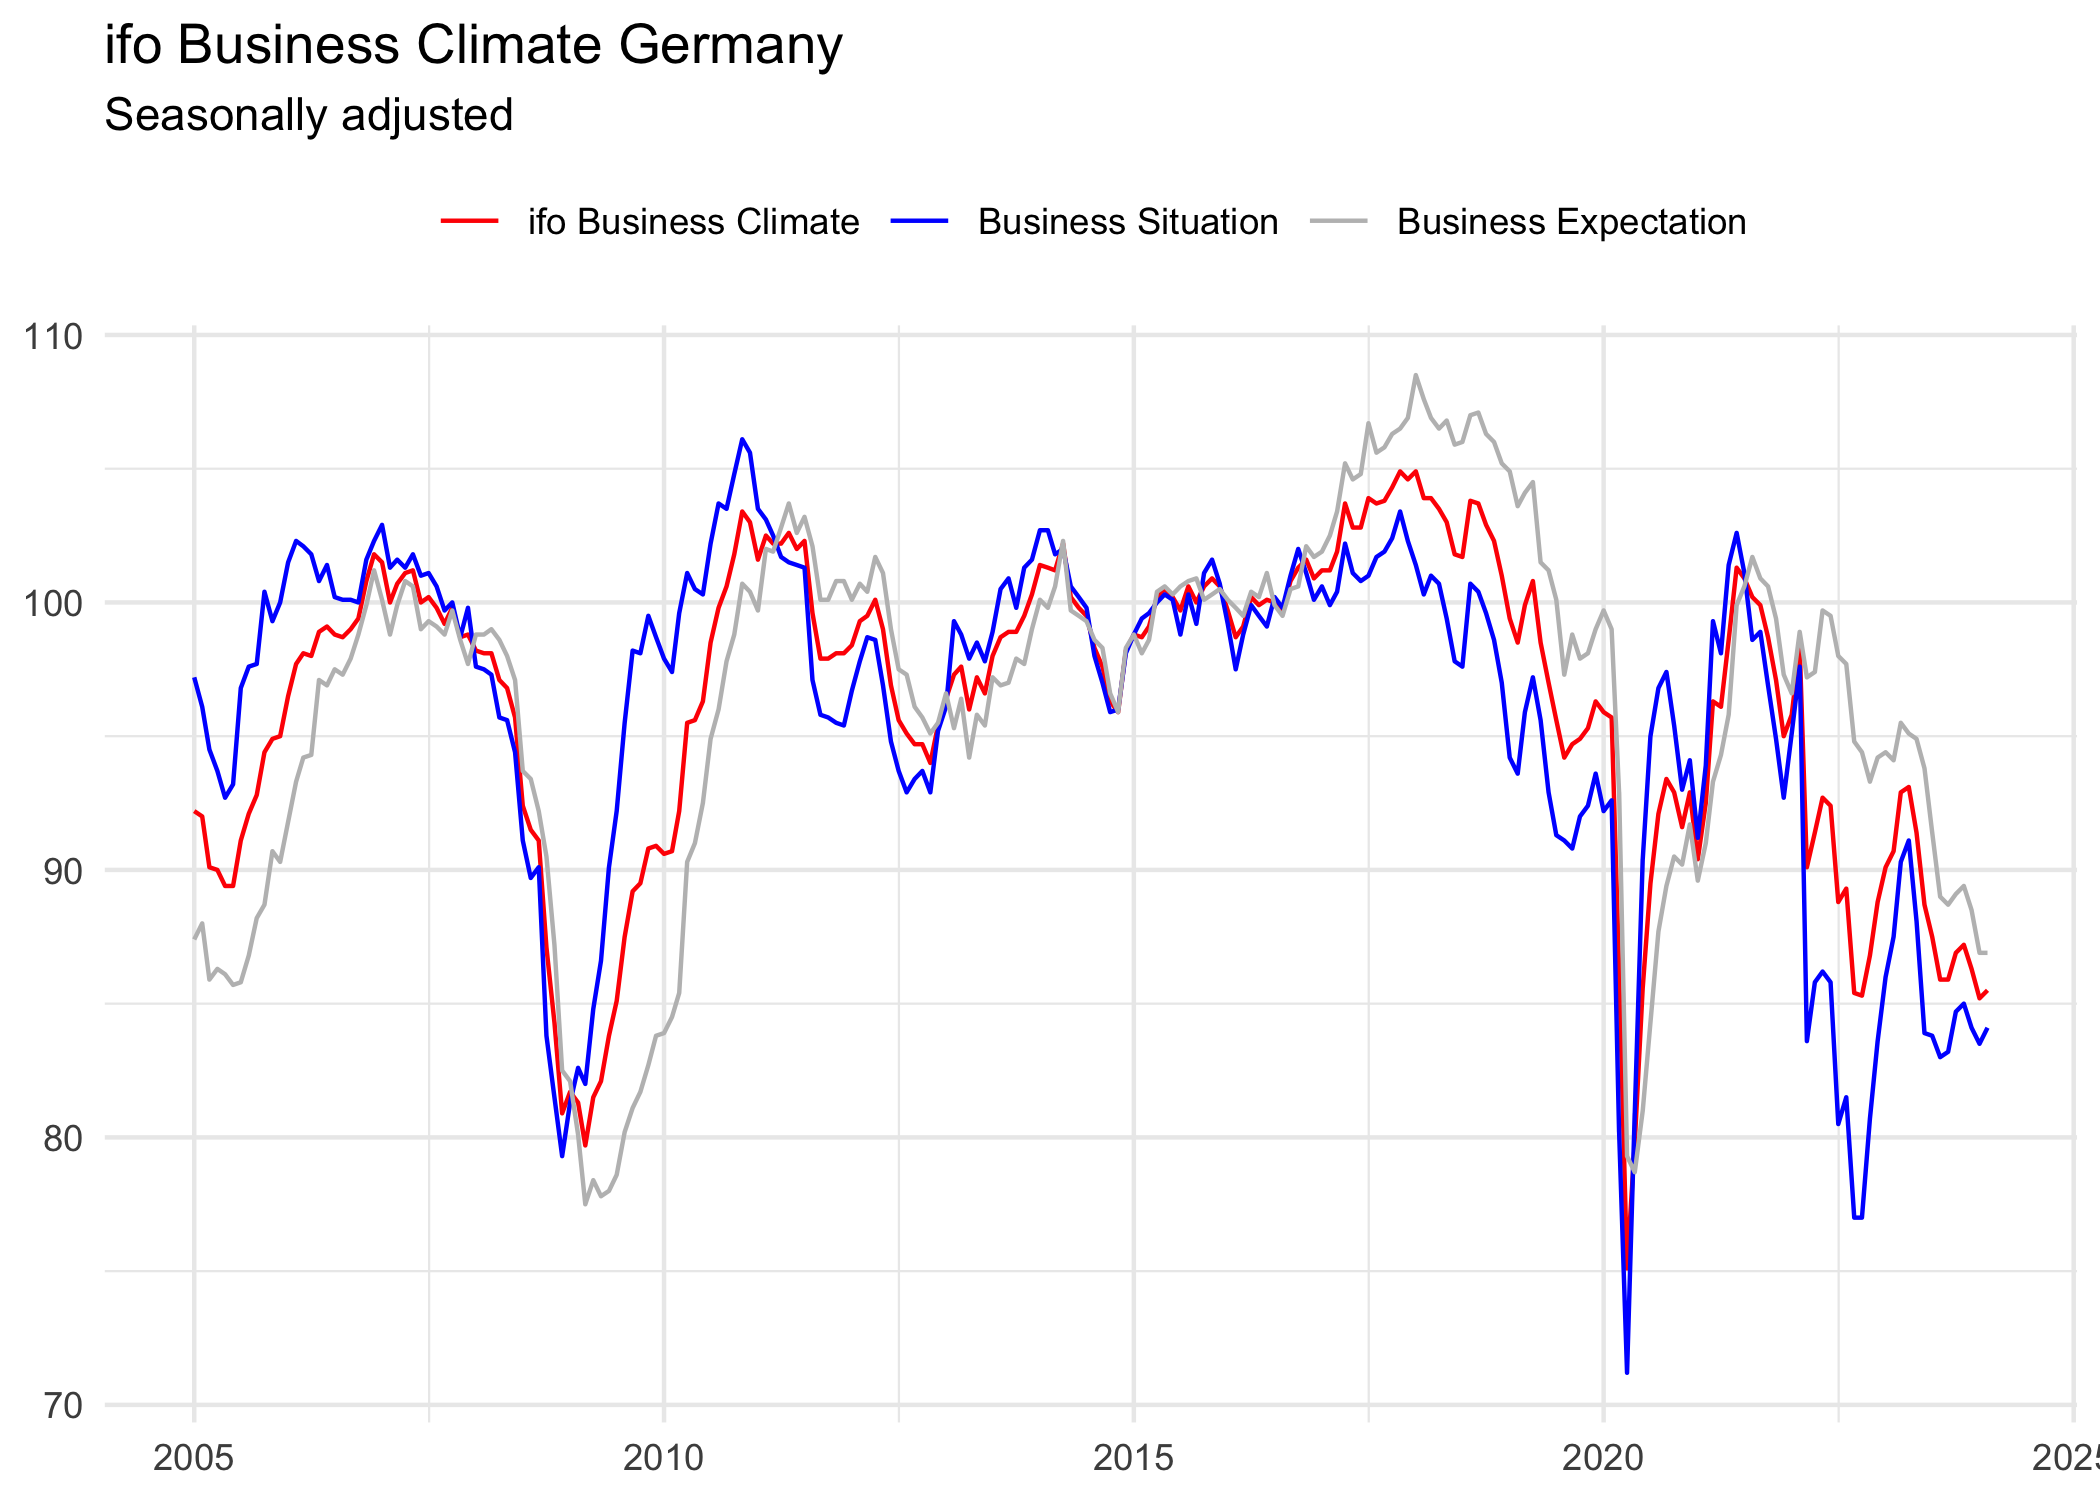
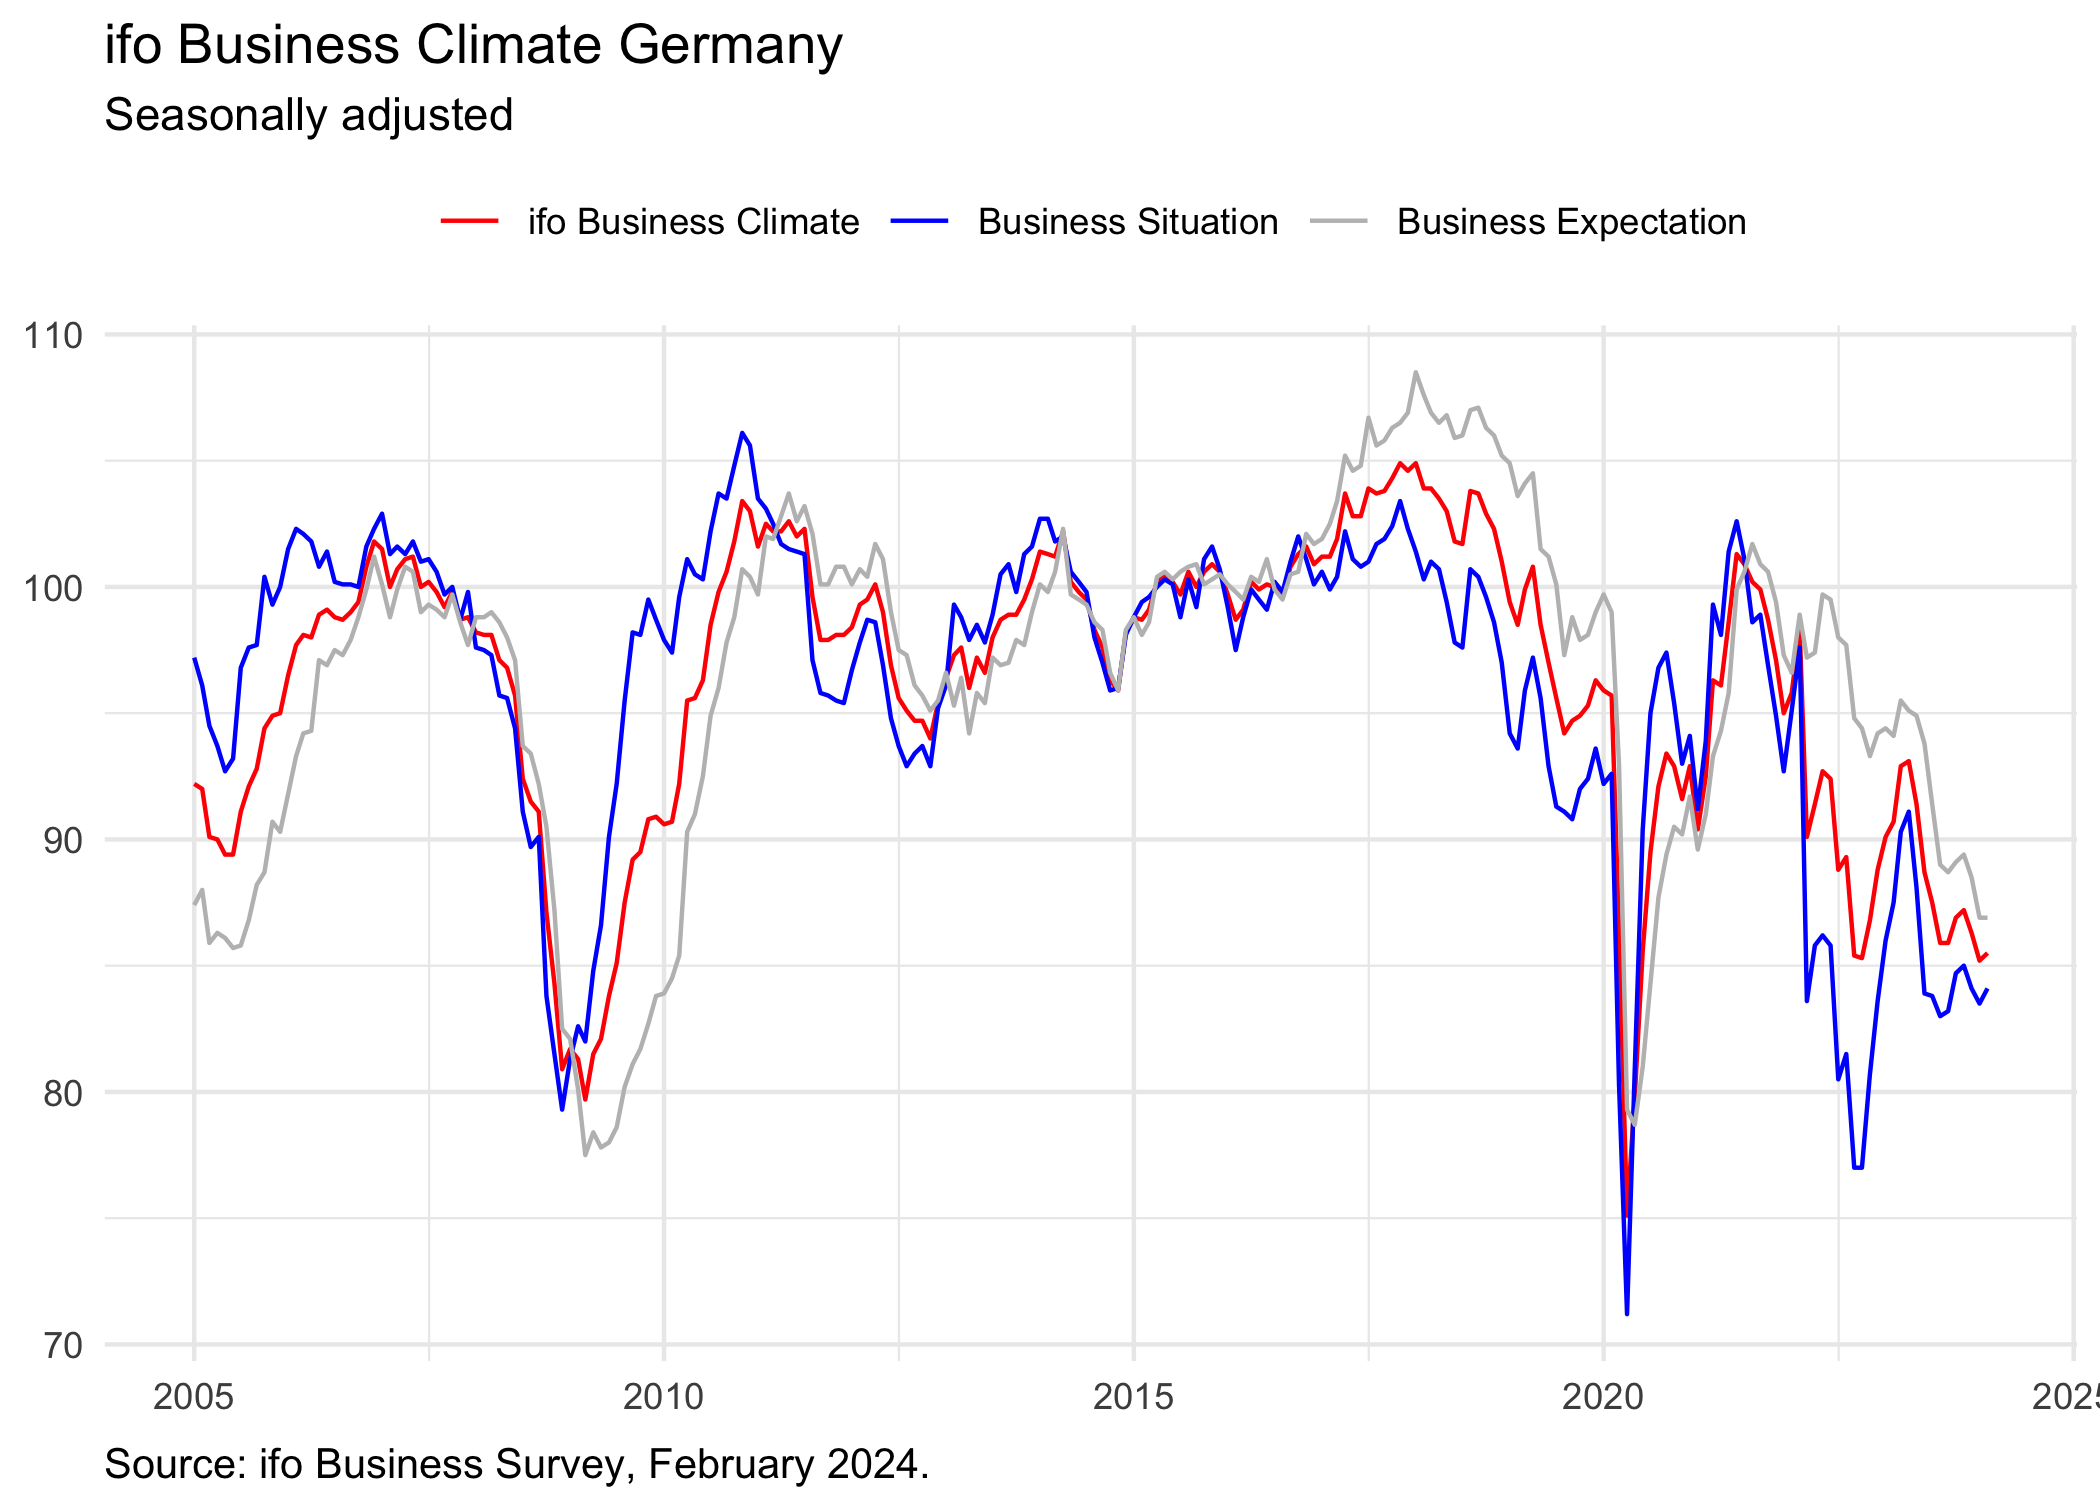
docs: init vignette setup and add source to chart

diff --git a/README.md b/README.md
@@ -59,12 +59,19 @@ climate |>
   mutate(component = sub("_index", "", component, fixed = TRUE)) |>
   ggplot(aes(x = yearmonth, y = value, color = component)) +
   geom_line() +
+  theme_minimal() +
+  theme(
+    legend.title = element_blank(),
+    legend.position = "top",
+    plot.caption = element_text(hjust = 0, vjust = 0, size = 10)
+  ) +
   labs(
     title = "ifo Business Climate Germany", subtitle = "Seasonally adjusted",
-    y = NULL, x = NULL
+    y = NULL, x = NULL,
+    caption = sprintf(
+      "Source: ifo Business Survey, %s.", format(max(climate$yearmonth), "%B %Y")
+    )
   ) +
-  theme_minimal() +
-  theme(legend.title = element_blank(), legend.position = "top") +
   scale_color_manual(
     values = c(climate = "red", situation = "grey", expectation = "blue"),
     labels = c(
